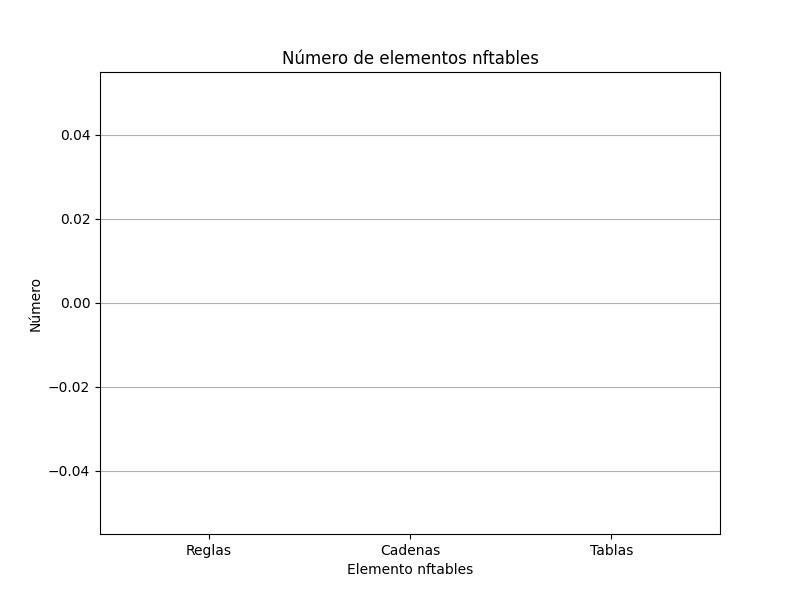
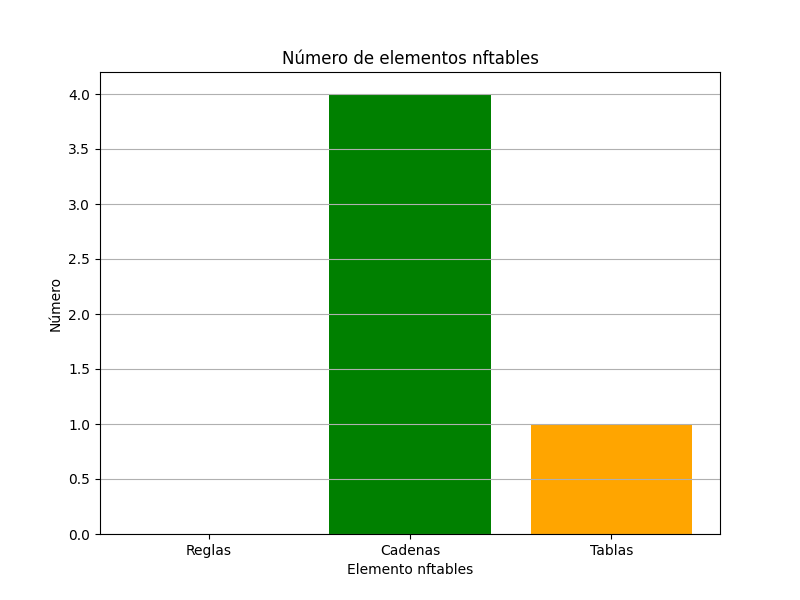
feat: see chains and remodel db

diff --git a/nftables-frontend/templates/tables/table.html b/nftables-frontend/templates/tables/table.html
@@ -5,9 +5,9 @@
 {% block content %}
 <div class="container">
     <h1>Table: {{ table.name }}</h1>
-    <button class="btn btn-primary" onclick="location.href='/add_chain/{{ table.id }}'">Add chain</button>
-    <button class="btn btn-danger" onclick="location.href='/delete_table/{{ table.id }}'">Delete table</button>
-    <button class="btn btn-warning" onclick="location.href='/flush_table/{{ table.id }}'">Flush table</button>
+    <button class="btn btn-primary" onclick="location.href='/add_chain/{{ table.name }}'">Add chain</button>
+    <button class="btn btn-danger" onclick="location.href='/delete_table/{{ table.name }}'">Delete table</button>
+    <button class="btn btn-warning" onclick="location.href='/flush_table/{{ table.name }}'">Flush table</button>
     <br></br>
     <table class="table personal-table">
         <thead>
@@ -26,7 +26,7 @@
             {% else %}
             {% for chain in chains %}
                 <tr>
-                    <td><a href="/chain/{{ chain.id }}"> {{ chain.name }}</a></td>
+                    <td><a href="/chain/{{ chain.name }}"> {{ chain.name }}</a></td>
                     <td>{{ chain.family }}</td>
                     <td>
                         {% if chain.description %}
@@ -36,7 +36,7 @@
                         {% endif %}
                     </td>
                     <td>
-                        <button class="btn btn-danger" onclick="location.href='/delete_chain/{{ chain.id }}'">Delete</button>
+                        <button class="btn btn-danger" onclick="location.href='/delete_chain/{{ chain.name }}'">Delete</button>
                     </td>
                 </tr>
             {% endfor %}

diff --git a/nftables-frontend/templates/chains/chains.html b/nftables-frontend/templates/chains/chains.html
@@ -1,0 +1,41 @@
+{% extends "base.html" %}
+{% block head %}
+{{ super() }}
+{% endblock %}
+{% block content %}
+<div class="container">
+  <h1>Chains</h1>
+  <table class="table personal-table ">
+    <thead>
+      <tr>
+        <th>Table</th>
+        <th>Family</th>
+        <th>Chain</th>
+        <th>Policy</th>
+        <th>Actions</th>
+      </tr>
+    </thead>
+    <tbody>
+      {% for chain in chains %}
+      <tr>
+        <td>
+          <a href="/table/{{ chain.table.name}}"> {{ chain.table.name }}</a></td>
+        <td>{{ chain.table.family }}</td>
+        <td> <a href="/table/{{ chain.name}}"> {{ chain.name }}</a></td>
+
+          {% if chain.policy == None %}
+          <td>Non existing policy for this chain</td>
+          {% else %}
+          <td>{{ chain.policy }}</td>
+          {% endif %}
+        <td>
+          <a href="/edit_chain/{{ chain.table }}/{{ chain.chain }}" class="btn btn-primary">Edit</a>
+          <a href="/delete_chain/{{ chain.table }}/{{ chain.chain }}" class="btn btn-danger">Delete</a>
+        </td>
+      </tr>
+      {% endfor %}
+    </tbody>
+  </table>
+  <a href="/add_chain" class="btn btn-primary">Add chain</a>    
+</div>
+{% endblock %}

diff --git a/nftables-frontend/templates/tables/tables.html b/nftables-frontend/templates/tables/tables.html
@@ -25,7 +25,7 @@
                 {% else %}
                 {% for table in tables %}
                     <tr>
-                        <td><a href="/table/{{ table.id }}"> {{ table.name }}</a></td>
+                        <td><a href="/table/{{ table.name }}"> {{ table.name }}</a></td>
                         <td>{{ table.family }}</td>
                         <td>
                             {% if table.description %}
@@ -35,7 +35,7 @@
                             {% endif %}
                         </td>
                         <td>
-                            <button class="btn btn-danger" onclick="location.href='/delete_table/{{ table.id }}'">Delete</button>
+                            <button class="btn btn-danger" onclick="location.href='/delete_table/{{ table.name }}'">Delete</button>
                         </td>
                     </tr>
                 {% endfor %}

diff --git a/nftables-frontend/static/css/base.css b/nftables-frontend/static/css/base.css
@@ -49,3 +49,23 @@
     padding: 1px 16px !important;
 }
 
+.personal-table{
+    background-color: #343a40;
+    color: #fff;
+    border: 1px solid #343a40 !important;
+}
+
+.personal-table th{
+    background-color: #343a40;
+    color: #fff;
+    border: 1px solid #343a40 !important;
+    text-align: center;
+}
+
+.personal-table td{
+    background-color: #fff;
+    color: #343a40;
+    border: 1px solid #343a40 !important;
+    text-align: center;
+}
+

diff --git a/nftables-frontend/templates/base.html b/nftables-frontend/templates/base.html
@@ -15,7 +15,7 @@
           <a class="nav-link" href="/tables">Tables</a>
         </li>
         <li class="nav-item">
-          <a class="nav-link" href="#">Chains</a>
+          <a class="nav-link" href="/chains">Chains</a>
         </li>
         <li class="nav-item">
           <a class="nav-link" href="#">Rules</a>

diff --git a/nftables-frontend/views.py b/nftables-frontend/views.py
@@ -25,17 +25,18 @@ def main_view():
         n_chains = Chain.query.count()
         n_rules = Rule.query.count()
         values = [n_rules, n_chains, n_tables]
+        image_path = 'static/img/nftables_info.png'
         plt.figure(figsize=(8, 6))
         plt.bar(categories, values, color=['blue', 'green', 'orange'])
         plt.xlabel('Elemento nftables')
         plt.ylabel('Número')
         plt.title('Número de elementos nftables')
         plt.grid(axis='y')
-        if os.path.exists('static/img/nftables_info.png'):
-            os.remove('static/nftables_info.png')
-        plt.savefig('static/nftables_info.png')
+        if os.path.exists(image_path):
+            os.remove(image_path)
+        plt.savefig(image_path)
         plt.close()       
-        return render_template('main.html', nftables_info_image=url_for('static', filename='nftables_info.png') , current_user=current_user, hostname=host, ip_address=ip_address)
+        return render_template('main.html', nftables_info_image=url_for('static', filename='/img/nftables_info.png') , current_user=current_user, hostname=host, ip_address=ip_address)
     else:
         form = LoginForm()
         return render_template('login.html', form=form)
@@ -66,11 +67,10 @@ def get_table(table_id):
                 hook_type = chain['hook_type']
             if("priority" in chain):
                 priority = chain['priority']
-            if("type" not in chain):
-                chain["type"] = None
+
             if("policy" not in chain):
                 chain["policy"] = None
-            service.insert_chain(chain_name=chain["name"], family=chain["family"], type=chain['type'], policy=chain['policy'], table_id=table_id, hook_type=hook_type, priority=priority)
+            service.insert_chain(chain_name=chain["name"], family=chain["family"], policy=chain['policy'], table_id=table_id, hook_type=hook_type, priority=priority)
     chains = service.get_chains_from_table(table_id)
     return render_template('tables/table.html', table=table, chains=chains)
 
@@ -197,3 +197,20 @@ def logout():
     logout_user()
     return redirect('/')
     
+@visualization_bp.route("/chains")
+def get_chains():
+    result = api.list_chains_request()
+    for item in result["chains"]["nftables"]:
+        if("chain" in item):
+            if(service.check_existing_chain(item["chain"]["name"], item["chain"]["table"]) == False):
+                prio = None
+                hook = None
+                if("prio" in item["chain"]):
+                    prio = item["chain"]["prio"]
+                if("hook" in item["chain"]):
+                    hook = item["chain"]["hook"]
+                if("policy" not in item["chain"]):
+                    item["chain"]["policy"] = None
+                service.insert_chain(item["chain"]["name"], item["chain"]["family"], item["chain"]["policy"], item["chain"]["table"], priority=prio, hook_type=hook)
+    chains = service.get_chains()
+    return render_template('chains/chains.html', chains=chains)

diff --git a/nftables-frontend/models.py b/nftables-frontend/models.py
@@ -27,8 +27,7 @@ class User(UserMixin, db.Model):
         return self.password == password
 
 class Table(db.Model):
-    id = db.Column(db.Integer, primary_key=True)
-    name = db.Column(db.String(80), unique=True, nullable=False)
+    name = db.Column(db.String(80), unique=True, nullable=False, primary_key=True)
     family = db.Column(db.String(80), nullable=False)
     description = db.Column(db.String(120), nullable=True)
     chains = db.relationship('Chain', backref='table', lazy=True, cascade="all, delete-orphan")
@@ -41,39 +40,35 @@ class Table(db.Model):
         return '<Table %r>' % self.name
     
 class Chain(db.Model):
-    id = db.Column(db.Integer, primary_key=True)
-    name = db.Column(db.String(80), unique=True, nullable=False)
-    table_id = db.Column(db.Integer, db.ForeignKey('table.id'), nullable=False)
+    __tablename__ = 'chain'
+    name = db.Column(db.String(80), unique=True, nullable=False, primary_key=True)
+    table_id = db.Column(db.Integer, db.ForeignKey('table.name'), nullable=False)
     type = db.Column(db.String(120), nullable=True)
     family = db.Column(db.String(120), nullable=False)
     policy = db.Column(db.String(120), nullable=True)
-    rules = db.relationship('Rule', backref='chain', lazy=True)
+    rules = db.relationship('Rule', backref='chain', lazy=True, cascade="all, delete-orphan")
+
 
     def __repr__(self):
         return '<Chain %r>' % self.name
-    
-class user_chain(Chain, db.Model):
-    
-    __tablename__ = 'user_chain'
-    
-    id = db.Column(db.Integer, db.ForeignKey('chain.id'), primary_key=True)
-    
-    def __repr__(self):
-        return '<User_chain %r>' % self.id
 
-class base_chain(Chain, db.Model):
-    
-    __tablename__ = 'base_chain'
-    
-    id = db.Column(db.Integer, db.ForeignKey('chain.id'), primary_key=True)
-    hook_type = db.Column(db.String(120), nullable=False)
-    priority = db.Column(db.Integer, nullable=False)
-    def __repr__(self):
-        return '<Base_chain %r>' % self.id
+class UserChain(Chain):
 
+
+    def __repr__(self):
+        return '<UserChain %r>' % self.id
+
+class BaseChain(Chain):
+
+    hook_type = db.Column(db.String(120), nullable=True)
+    priority = db.Column(db.Integer, nullable=True)
+
+
+    def __repr__(self):
+        return '<BaseChain %r>' % self.id
 class Rule(db.Model):
     id = db.Column(db.Integer, primary_key=True)
-    chain_id = db.Column(db.Integer, db.ForeignKey('chain.id'), nullable=False)
+    chain_id = db.Column(db.Integer, db.ForeignKey('chain.name'), nullable=False)
     rule = db.Column(db.String(120), nullable=False)
 
     def __repr__(self):

diff --git a/nftables-frontend/service.py b/nftables-frontend/service.py
@@ -1,4 +1,4 @@
-from models import Chain, Table, base_chain, db, User
+from models import Chain, Table, BaseChain, db, User
 from flask_login import LoginManager
 
 login_manager = LoginManager()
@@ -80,11 +80,11 @@ def insert_chains(table_id, chains):
     table.chains = chains
     db.session.commit()
     
-def insert_chain(chain_name, family,  type, policy, table_id, hook_type=None, priority=None):
+def insert_chain(chain_name, family, policy, table_id, hook_type=None, priority=None):
     if(hook_type != None and priority != None):
-        chain = base_chain(name=chain_name, family=family, type=type, policy=policy, table_id=table_id, hook_type=hook_type, priority=priority)
+        chain = BaseChain(name=chain_name, family=family, policy=policy, table_id=table_id, hook_type=hook_type, priority=priority)
     else:
-        chain = Chain(name=chain_name, family=family , table_id=table_id, type=type, policy=policy)
+        chain = Chain(name=chain_name, family=family , table_id=table_id, policy=policy)
     db.session.add(chain)
     db.session.commit()
     
@@ -97,3 +97,6 @@ def check_existing_chain(chain_name, table_id):
 def get_chains_from_table(table_id):
     table = Table.query.get(table_id)
     return table.chains
+
+def get_chains():
+    return Chain.query.all()

diff --git a/nftables-frontend/api.py b/nftables-frontend/api.py
@@ -59,3 +59,8 @@ def parse_chains(response):
         if isinstance(item, dict) and 'chain' in item:
             chains.append(item['chain'])
     return chains
+
+def list_chains_request():
+    json_data = {"json_data": {"nftables": [{"list": {"chains": {}}}]}}
+    response = requests.get('http://localhost:8000/chains/list_chains', json=json_data)
+    return (response.json())

diff --git a/nftables-parser/chains.py b/nftables-parser/chains.py
@@ -1,0 +1,10 @@
+import json
+from nftables import Nftables
+import sys
+import hug
+
+@hug.get('/list_chains')
+def list_chains(json_data: hug.types.json):
+    nft = Nftables()
+    result = nft.json_cmd(json_data)
+    return {"chains": result[1]}

diff --git a/nftables-parser/main.py b/nftables-parser/main.py
@@ -1,5 +1,6 @@
 import hug
-import tables
+import tables, chains
 
 api = hug.API(__name__)
 api.extend(tables, '/tables')
+api.extend(chains, '/chains')
